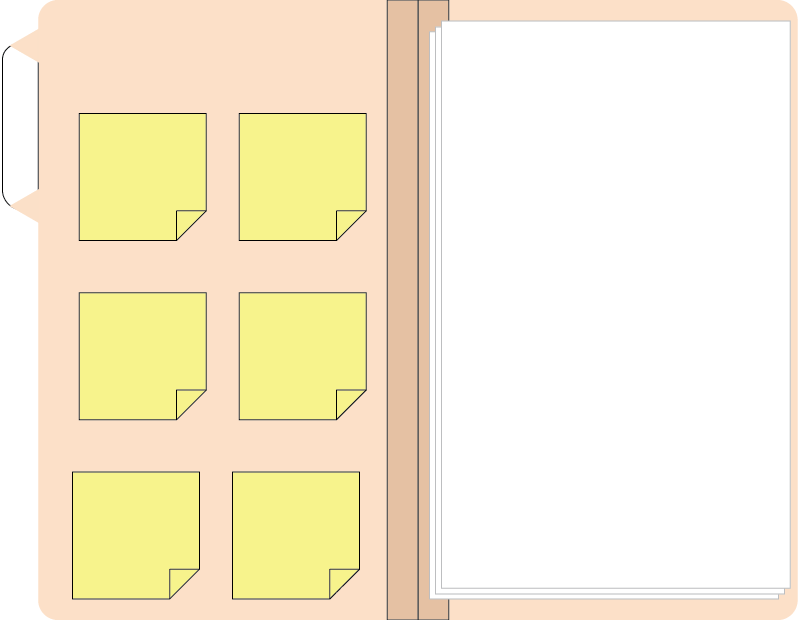
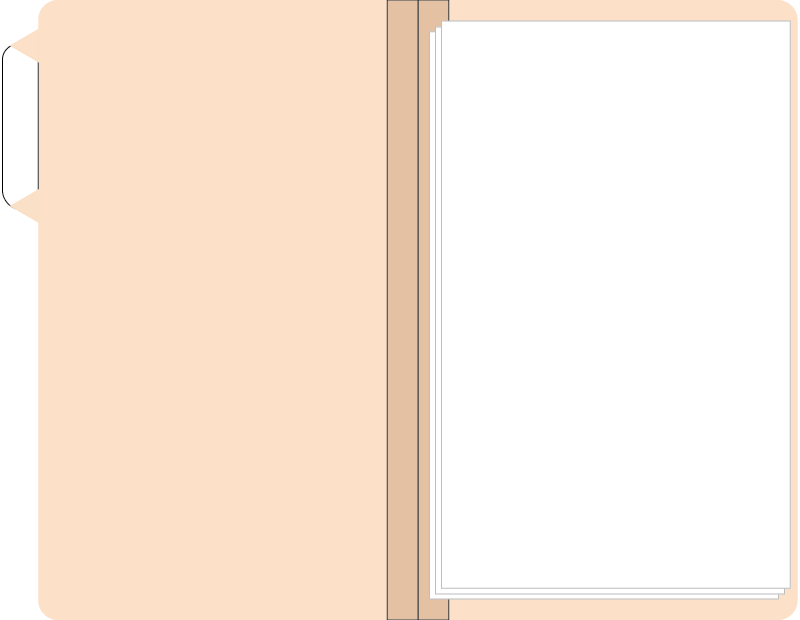
upgrade menu clickable

diff --git a/src/scenes/PlayMenu.js b/src/scenes/PlayMenu.js
@@ -8,13 +8,36 @@ class PlayMenu extends Phaser.Scene {
         //Load all assets
         this.load.path = './assets/';
         this.load.image('manilla', 'manilla.png');
+        this.load.image('post', 'PostIt.png')
+        this.load.image('order', 'OrderForm.png')
     }
 
     create() {
         console.log('play menu');
-        this.tester = this.add.image(80, 50, 'manilla').setOrigin(0, 0);
-        console.log(this.tester)
-        this.textConfig = { fontFamily: 'Helvetica', fontSize: '40px', backgroundColor: '#FFFFFF00', color: '#FFFFFF', align: 'center' };
+        this.pauseMenu = this.add.image(80, 50, 'manilla').setOrigin(0, 0);
+        this.postIt = this.add.image(150, 70, 'post').setOrigin(0, 0);
+        this.postIt.setInteractive({
+            useHandCursor: true
+        });
+        this.postIt.setDataEnabled;
+
+        //All Text
+        this.upgradeConfig = { fontFamily: 'Helvetica', fontSize: '20px', backgroundColor: '#00000000', color: '#000000', align: 'center' };
+        this.nameConfig = { fontFamily: 'Helvetica', fontSize: '40px', backgroundColor: '#00000000', color: '#000000', align: 'center' };
+        this.ingConfig = { fontFamily: 'Helvetica', fontSize: '30px', backgroundColor: '#00000000', color: '#000000', align: 'center' };
+        this.upgradeOne  = this.add.text(game.config.width/4.5, game.config.height/6, 'Contracts', this.upgradeConfig).setOrigin(0.5,0.5);
+        this.company  = this.add.text(game.config.width/1.37, game.config.height/4, 'Welcome Young', this.nameConfig).setOrigin(0.5,0.5);
+        this.multiplier = this.add.text(game.config.width/1.37, game.config.height/3, 'Capitalist!', this.nameConfig).setOrigin(0.5,0.5);
+        this.ingOne  = this.add.text(game.config.width/1.37, game.config.height/2.3, 'Buy upgrades on the left', this.ingConfig).setOrigin(0.5,0.5);
+        this.ingTwo  = this.add.text(game.config.width/1.37, game.config.height/1.95, 'Get Contracts on right', this.ingConfig).setOrigin(0.5,0.5);
+        this.ingThree  = this.add.text(game.config.width/1.37, game.config.height/1.7, 'You will now be charged', this.ingConfig).setOrigin(0.5,0.5);
+        this.ingFour  = this.add.text(game.config.width/1.37, game.config.height/1.5, '$3 for this', this.ingConfig).setOrigin(0.5,0.5);
+        
+
+        //Text Arrays
+        this.companyNames = ['Scam Co.', 'Capital Inc', 'Extor Shun Ltd']
+        this.multChanges = ['x1.1', 'x1.2', 'x0.9']
+        this.ingredients = ['Raisins', 'Nuts', 'M&Ms', '']
 
         //Define keys
         keyESC = this.input.keyboard.addKey(Phaser.Input.Keyboard.KeyCodes.ESC);
@@ -22,9 +45,22 @@ class PlayMenu extends Phaser.Scene {
 
     update() {
         if(Phaser.Input.Keyboard.JustDown(keyESC)) {
-            this.scene.start("menuScene");
+            console.log('esc');
+            this.scene.sleep('playMenuScene');
+            this.scene.resume('playScene');
         }
+        this.input.on('gameobjectdown', (pointer, gameObject, event) => {
+            console.log(this.company);
+            // console.log(gameObject);
+            // console.log(event);
+            this.company.text = this.companyNames[2];
+            this.multiplier.text = this.multChanges[1];
+            this.ingOne.text = this.ingredients[0];
+            this.ingTwo.text = this.ingredients[1];
+            this.ingThree.text = this.ingredients[2];
+            this.ingFour.text = this.ingredients[3];
+            this.upgradeOne.text = 'Next One'
+        });
     }
-
 
 }

diff --git a/src/scenes/Play.js b/src/scenes/Play.js
@@ -443,6 +443,7 @@ class Play extends Phaser.Scene {
         
         if(gObj == this.playMenu) {
             this.scene.launch("playMenuScene");
+            this.scene.pause('playScene');
         }
             
         for(let b of this.buttons.getChildren()) {
